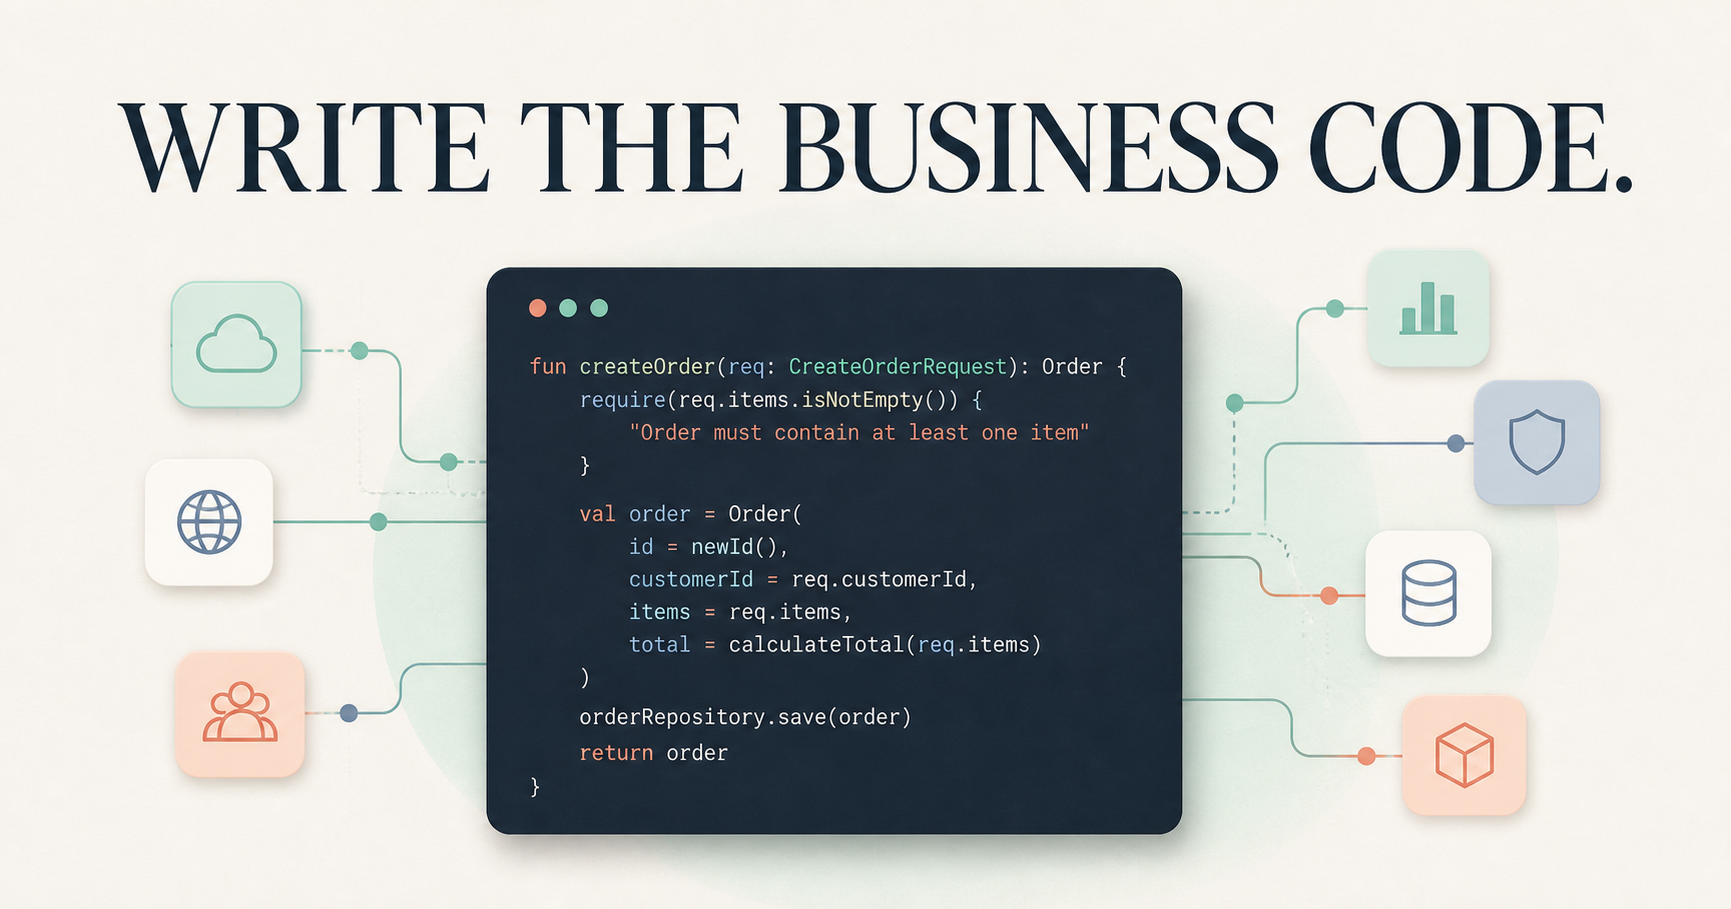
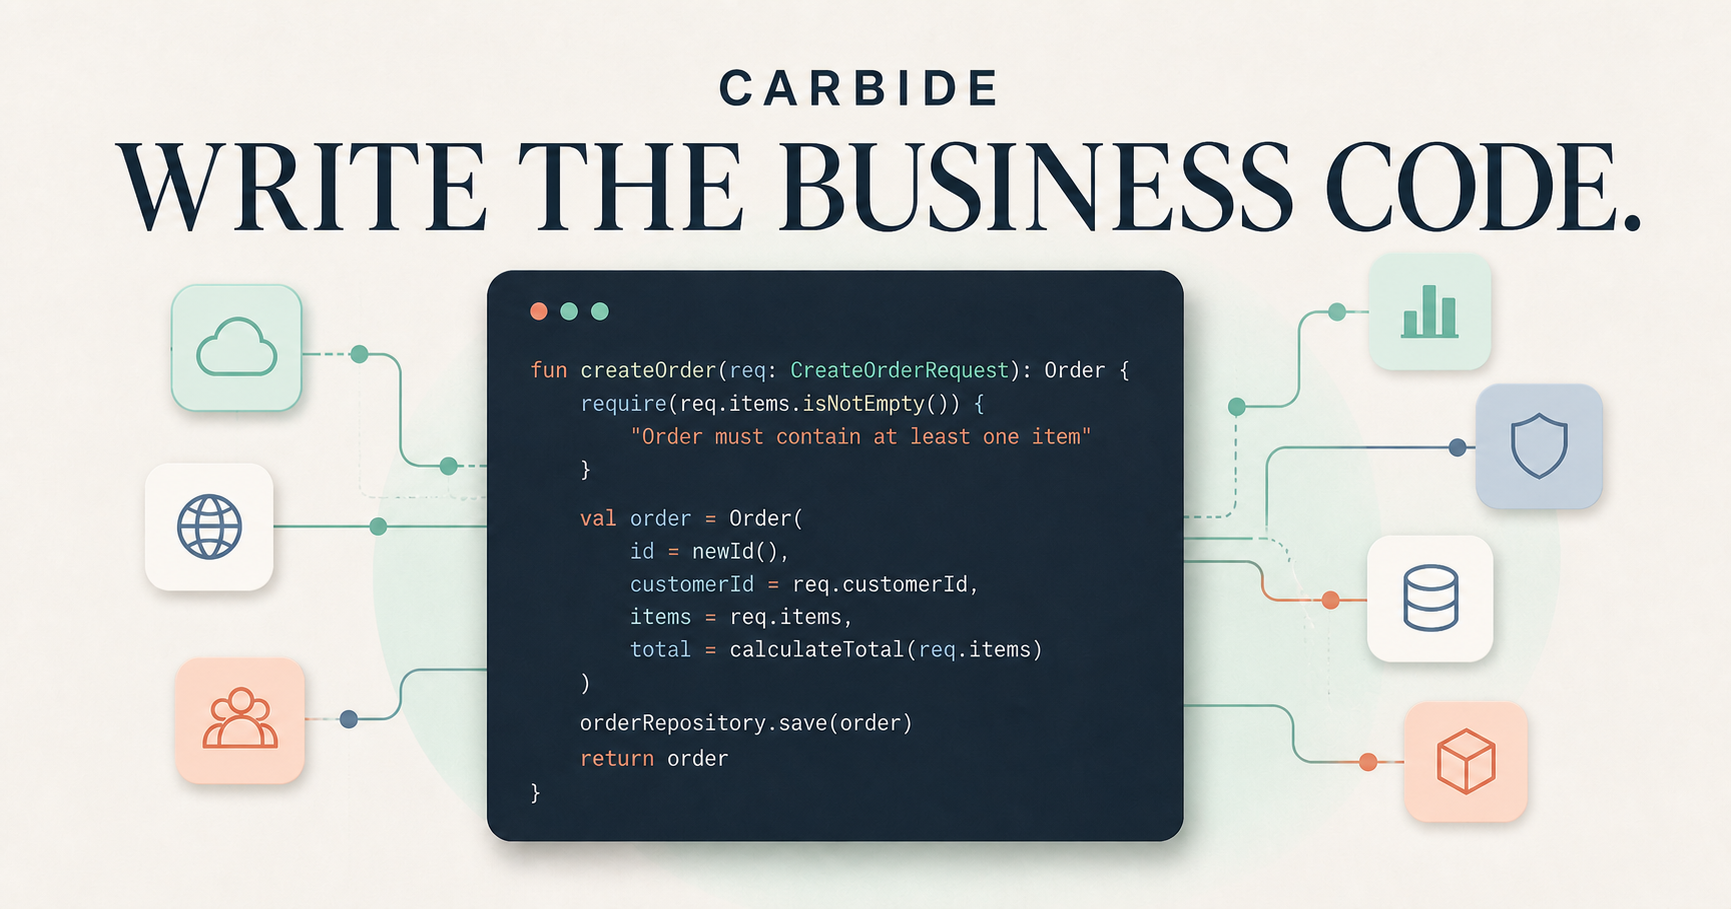
feat(website): brand the site as Carbide

diff --git a/website/app/site-chrome.tsx b/website/app/site-chrome.tsx
@@ -10,13 +10,11 @@ const navigation = [
 ] as const;
 
 export function SiteHeader({ current }: { current: PageKey }) {
-  const displayName = siteConfig.productName ?? siteConfig.fallbackName;
-
   return (
     <header className="site-header">
       <a className="wordmark" href="/" aria-label="Go to the home page">
         <span className="wordmark-mark" aria-hidden="true">[ ]</span>
-        <span>{displayName}</span>
+        <span>{siteConfig.productName}</span>
       </a>
       <nav aria-label="Main navigation">
         {navigation.map(([key, href, label]) => (
@@ -39,7 +37,7 @@ export function SiteFooter() {
     <footer>
       <div className="footer-mark" aria-hidden="true">[ ]</div>
       <p>Keep the code<br />about the business.</p>
-      <div className="footer-meta"><span>Kotlin service infrastructure</span><span>Documentation site preview</span></div>
+      <div className="footer-meta"><span>Carbide</span><span>Kotlin service infrastructure</span></div>
     </footer>
   );
 }

diff --git a/website/app/layout.tsx b/website/app/layout.tsx
@@ -8,7 +8,7 @@ export async function generateMetadata(): Promise<Metadata> {
   const host = requestHeaders.get("x-forwarded-host") ?? requestHeaders.get("host") ?? "localhost:3000";
   const protocol = requestHeaders.get("x-forwarded-proto") ?? (host.startsWith("localhost") ? "http" : "https");
   const origin = `${protocol}://${host}`;
-  const title = siteConfig.productName ?? siteConfig.title;
+  const title = siteConfig.title;
   const image = `${origin}/og.png`;
 
   return {
@@ -17,7 +17,7 @@ export async function generateMetadata(): Promise<Metadata> {
     openGraph: {
       title,
       description: siteConfig.description,
-      images: [{ url: image, width: 1731, height: 909, alt: "You write the business code" }],
+      images: [{ url: image, width: 1731, height: 909, alt: "Carbide — write the business code" }],
     },
     twitter: {
       card: "summary_large_image",

diff --git a/website/app/infrastructure/page.tsx b/website/app/infrastructure/page.tsx
@@ -1,14 +1,16 @@
 import type { Metadata } from "next";
 import { avoidedWork, capabilities, routePages } from "../content";
 import { SiteFooter, SiteHeader } from "../site-chrome";
+import { siteConfig } from "../site-config";
 
 const page = routePages.infrastructure;
+const title = `${page.title} — ${siteConfig.productName}`;
 
 export const metadata: Metadata = {
-  title: `${page.title} — Kotlin service infrastructure`,
+  title,
   description: page.description,
-  openGraph: { title: page.heading, description: page.description, images: [] },
-  twitter: { title: page.heading, description: page.description, images: [] },
+  openGraph: { title, description: page.description, images: [] },
+  twitter: { title, description: page.description, images: [] },
 };
 
 export default function InfrastructurePage() {

diff --git a/website/app/architecture/page.tsx b/website/app/architecture/page.tsx
@@ -1,14 +1,16 @@
 import type { Metadata } from "next";
 import { planes, routePages } from "../content";
 import { SiteFooter, SiteHeader } from "../site-chrome";
+import { siteConfig } from "../site-config";
 
 const page = routePages.architecture;
+const title = `${page.title} — ${siteConfig.productName}`;
 
 export const metadata: Metadata = {
-  title: `${page.title} — Kotlin service infrastructure`,
+  title,
   description: page.description,
-  openGraph: { title: page.heading, description: page.description, images: [] },
-  twitter: { title: page.heading, description: page.description, images: [] },
+  openGraph: { title, description: page.description, images: [] },
+  twitter: { title, description: page.description, images: [] },
 };
 
 export default function ArchitecturePage() {

diff --git a/website/app/get-started/page.tsx b/website/app/get-started/page.tsx
@@ -1,14 +1,16 @@
 import type { Metadata } from "next";
 import { gettingStarted, routePages } from "../content";
 import { SiteFooter, SiteHeader } from "../site-chrome";
+import { siteConfig } from "../site-config";
 
 const page = routePages.start;
+const title = `${page.title} — ${siteConfig.productName}`;
 
 export const metadata: Metadata = {
-  title: `${page.title} — Kotlin service infrastructure`,
+  title,
   description: page.description,
-  openGraph: { title: page.heading, description: page.description, images: [] },
-  twitter: { title: page.heading, description: page.description, images: [] },
+  openGraph: { title, description: page.description, images: [] },
+  twitter: { title, description: page.description, images: [] },
 };
 
 export default function GetStartedPage() {

diff --git a/website/app/site-config.ts b/website/app/site-config.ts
@@ -1,8 +1,7 @@
 export const siteConfig = {
-  productName: null as string | null,
-  fallbackName: "Kotlin service infrastructure",
-  title: "Write the business code. Get the infrastructure.",
+  productName: "Carbide",
+  title: "Carbide — Kotlin service infrastructure",
   description:
-    "Implement typed Kotlin services while the framework handles hosting, transport, clients, lifecycle, observability, and public API delivery.",
+    "Carbide lets you implement typed Kotlin services while it handles hosting, transport, clients, lifecycle, observability, and public API delivery.",
   repositoryUrl: null as string | null,
 } as const;

diff --git a/website/README.md b/website/README.md
@@ -1,7 +1,7 @@
-# Framework website preview
+# Carbide website
 
-Name-neutral four-page website for the Kotlin service framework. Product naming and repository links
-are centralized in `app/site-config.ts`; the current fallback label is intentionally descriptive.
+Four-page website for Carbide, the Kotlin service infrastructure framework. Product metadata and
+repository links are centralized in `app/site-config.ts`.
 
 ## Local development
 
@@ -21,4 +21,4 @@ npm test
 ```
 
 This creates the production build and verifies all four server-rendered pages. Hosting and public URLs
-remain deliberately unconfigured until the project name and repository location are final.
+remain deliberately unconfigured until the repository location and publishing setup are final.
